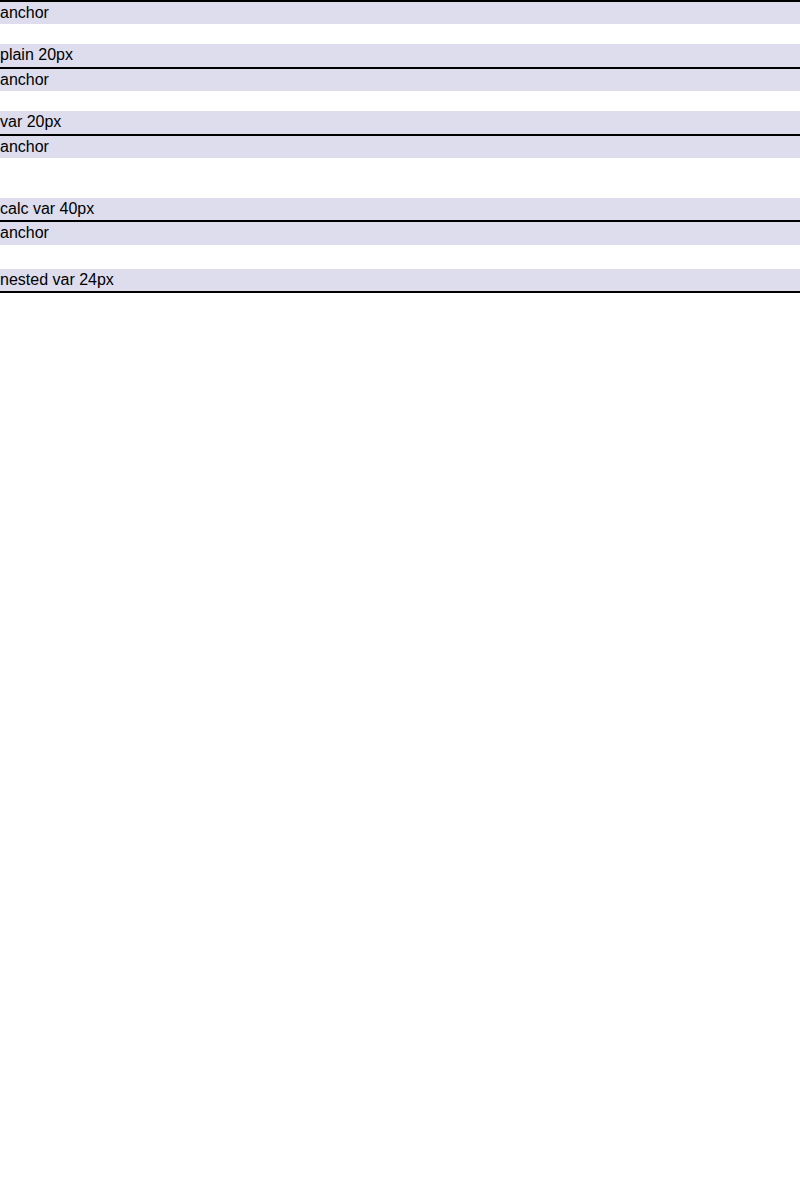
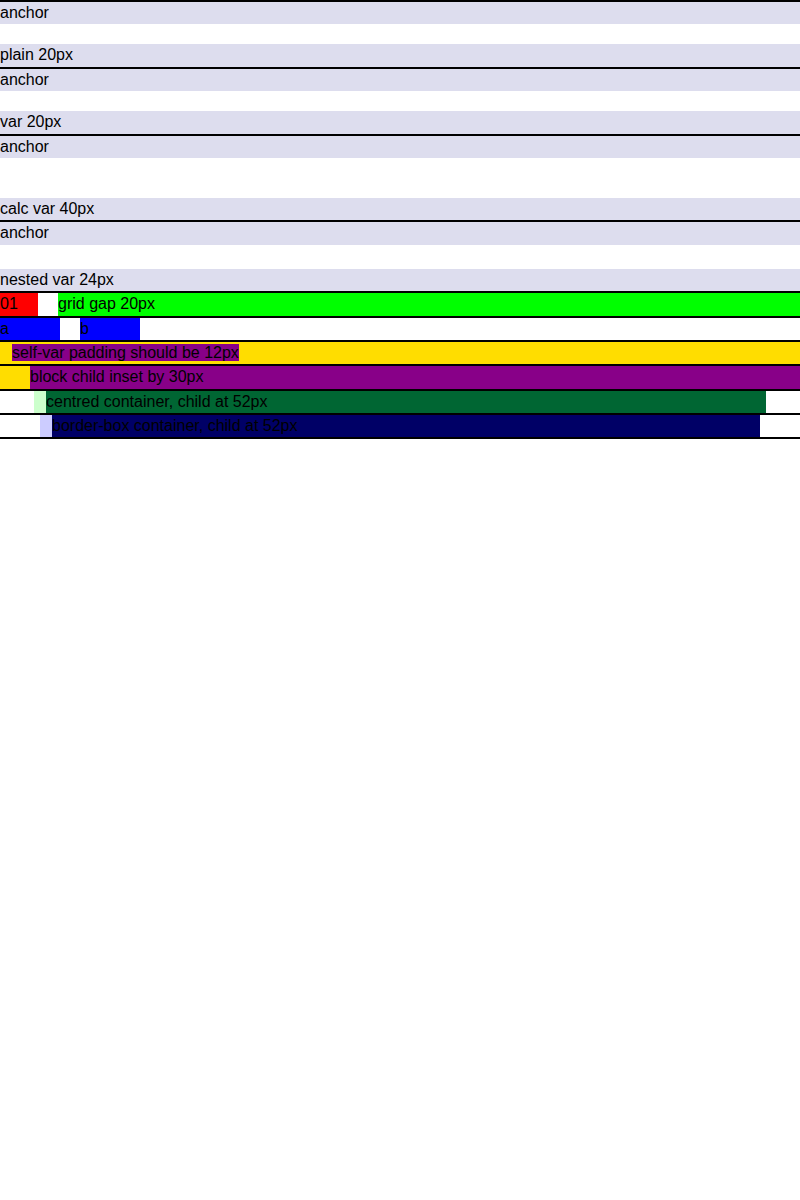
fix(layout): centre the border box, and snap hairlines to the pixel grid
`margin: 0 auto` was centring the content width, so a padded container sat half
its padding off to one side and took its whole subtree with it: yunseong.dev's
page content started 12px left of where Chromium puts it, and every column
inside inherited the shift. Centring now counts the padding and border, which
also fixes the content-box case, where the box is wider than its `width` by the
same amount.

Border edges are drawn as filled rects, and one at a fractional offset spread
its coverage across two rows — a 1px #161718 rule came out as #656667. Edges are
snapped to whole pixels, so a hairline is the colour the page asked for. On a
design built out of hairlines that is most of its visible structure.

Claude-Session: https://claude.ai/code/session_01MVvjtxhhDJEQznXEyw2u3K

Changed region(s): [[0.0, 0.2467, 1.0, 0.37]]

diff --git a/tools/parity/fixtures/probe-spacing/index.html b/tools/parity/fixtures/probe-spacing/index.html
@@ -11,6 +11,25 @@
   .m-calc { margin-top: calc(var(--sp-5) * 2); }
   .m-nested { margin-top: var(--half); }
   .rule { border-top: 2px solid #000; }
+  /* Gaps written in rem, on both grid and flex. */
+  .g { display: grid; grid-template-columns: 38px minmax(0, 1fr); gap: 1.25rem; }
+  .g > :first-child { background: #f00; }
+  .g > :last-child { background: #0f0; }
+  .f { display: flex; gap: 1.25rem; }
+  .f > span { background: #00f; width: 60px; }
+  /* The custom property is set on the same element that consumes it, as
+     Bootstrap's .container does with --bs-gutter-x. */
+  .selfvar { --local-gutter: 1.5rem; padding-left: calc(var(--local-gutter) * .5); background: #fd0; }
+  .selfvar > span { background: #808; }
+  /* Padding must inset block children, not only inline content. */
+  .padded-block { padding-left: 30px; background: #fd0; }
+  .padded-block > div { background: #808; }
+  .maxw { max-width: 720px; margin: 0 auto; padding-left: 12px; background: #cfc; }
+  .maxw > div { background: #063; }
+  /* The same centred container under border-box, as Bootstrap ships it. */
+  .bb, .bb * { box-sizing: border-box; }
+  .bb { max-width: 720px; margin: 0 auto; padding-left: 12px; background: #ccf; }
+  .bb > div { background: #006; }
 </style>
 </head>
 <body>
@@ -18,6 +37,12 @@
   <div class="rule"></div><p class="box">anchor</p><p class="box m-var">var 20px</p>
   <div class="rule"></div><p class="box">anchor</p><p class="box m-calc">calc var 40px</p>
   <div class="rule"></div><p class="box">anchor</p><p class="box m-nested">nested var 24px</p>
+  <div class="rule"></div><div class="g"><div>01</div><div>grid gap 20px</div></div>
+  <div class="rule"></div><div class="f"><span>a</span><span>b</span></div>
+  <div class="rule"></div><div class="selfvar"><span>self-var padding should be 12px</span></div>
+  <div class="rule"></div><div class="padded-block"><div>block child inset by 30px</div></div>
+  <div class="rule"></div><div class="maxw"><div>centred container, child at 52px</div></div>
+  <div class="rule"></div><div class="bb"><div>border-box container, child at 52px</div></div>
   <div class="rule"></div>
 </body>
 </html>

diff --git a/src/layer_tree.rs b/src/layer_tree.rs
@@ -726,6 +726,16 @@ impl LayerTreeBuilder {
                 // Edges are drawn as filled rectangles that meet at the corners.
                 // Mitring is skipped: at the 1-2px widths pages actually use, the
                 // overlap is a single corner pixel.
+                // Snap each edge to the pixel grid. A hairline at a fractional
+                // offset otherwise spreads its coverage over two rows and comes
+                // out as a pale smear instead of the colour the page asked for —
+                // and a design built on hairlines is then wrong everywhere.
+                let snap = |rect: crate::layout::Rect| crate::layout::Rect {
+                    x: rect.x.round(),
+                    y: rect.y.round(),
+                    width: rect.width.round().max(if rect.width > 0.0 { 1.0 } else { 0.0 }),
+                    height: rect.height.round().max(if rect.height > 0.0 { 1.0 } else { 0.0 }),
+                };
                 let edges: [(f32, crate::layout::Rect, &str); 4] = [
                     (b.top, crate::layout::Rect { x: d.x, y: d.y, width: d.width, height: b.top }, "top"),
                     (b.right, crate::layout::Rect { x: d.x + d.width - b.right, y: d.y, width: b.right, height: d.height }, "right"),
@@ -734,7 +744,7 @@ impl LayerTreeBuilder {
                 ];
                 for (width, rect, side) in edges {
                     if width > 0.0 && rect.width > 0.0 && rect.height > 0.0 {
-                        commands.push(PaintCommand::Rect(rect, side_color(side), 0.0));
+                        commands.push(PaintCommand::Rect(snap(rect), side_color(side), 0.0));
                     }
                 }
             }

diff --git a/src/layout.rs b/src/layout.rs
@@ -1030,7 +1030,12 @@ impl<'a> LayoutBox<'a> {
             width = width.max(min_w);
         }
 
-        if is_block && width < container_width {
+        // `margin: 0 auto` centres the box's *border* box. `width` at this point
+        // is the content width, so the padding and border have to be counted in
+        // — leaving them out pushed a centred, padded container half its padding
+        // off to one side and shifted its whole subtree with it.
+        let outer_width = width + self.padding.left + self.padding.right + self.border.left + self.border.right;
+        if is_block && outer_width < container_width {
             let mut is_auto = false;
             for prop in ["margin", "margin-left", "margin-right"] {
                 if let Some(Value::Keyword(s)) = self
@@ -1045,7 +1050,7 @@ impl<'a> LayoutBox<'a> {
                 }
             }
             if is_auto {
-                let leftover = (container_width - width).max(0.0);
+                let leftover = (container_width - outer_width).max(0.0);
                 self.margin.left = leftover / 2.0;
                 self.margin.right = leftover / 2.0;
             }
